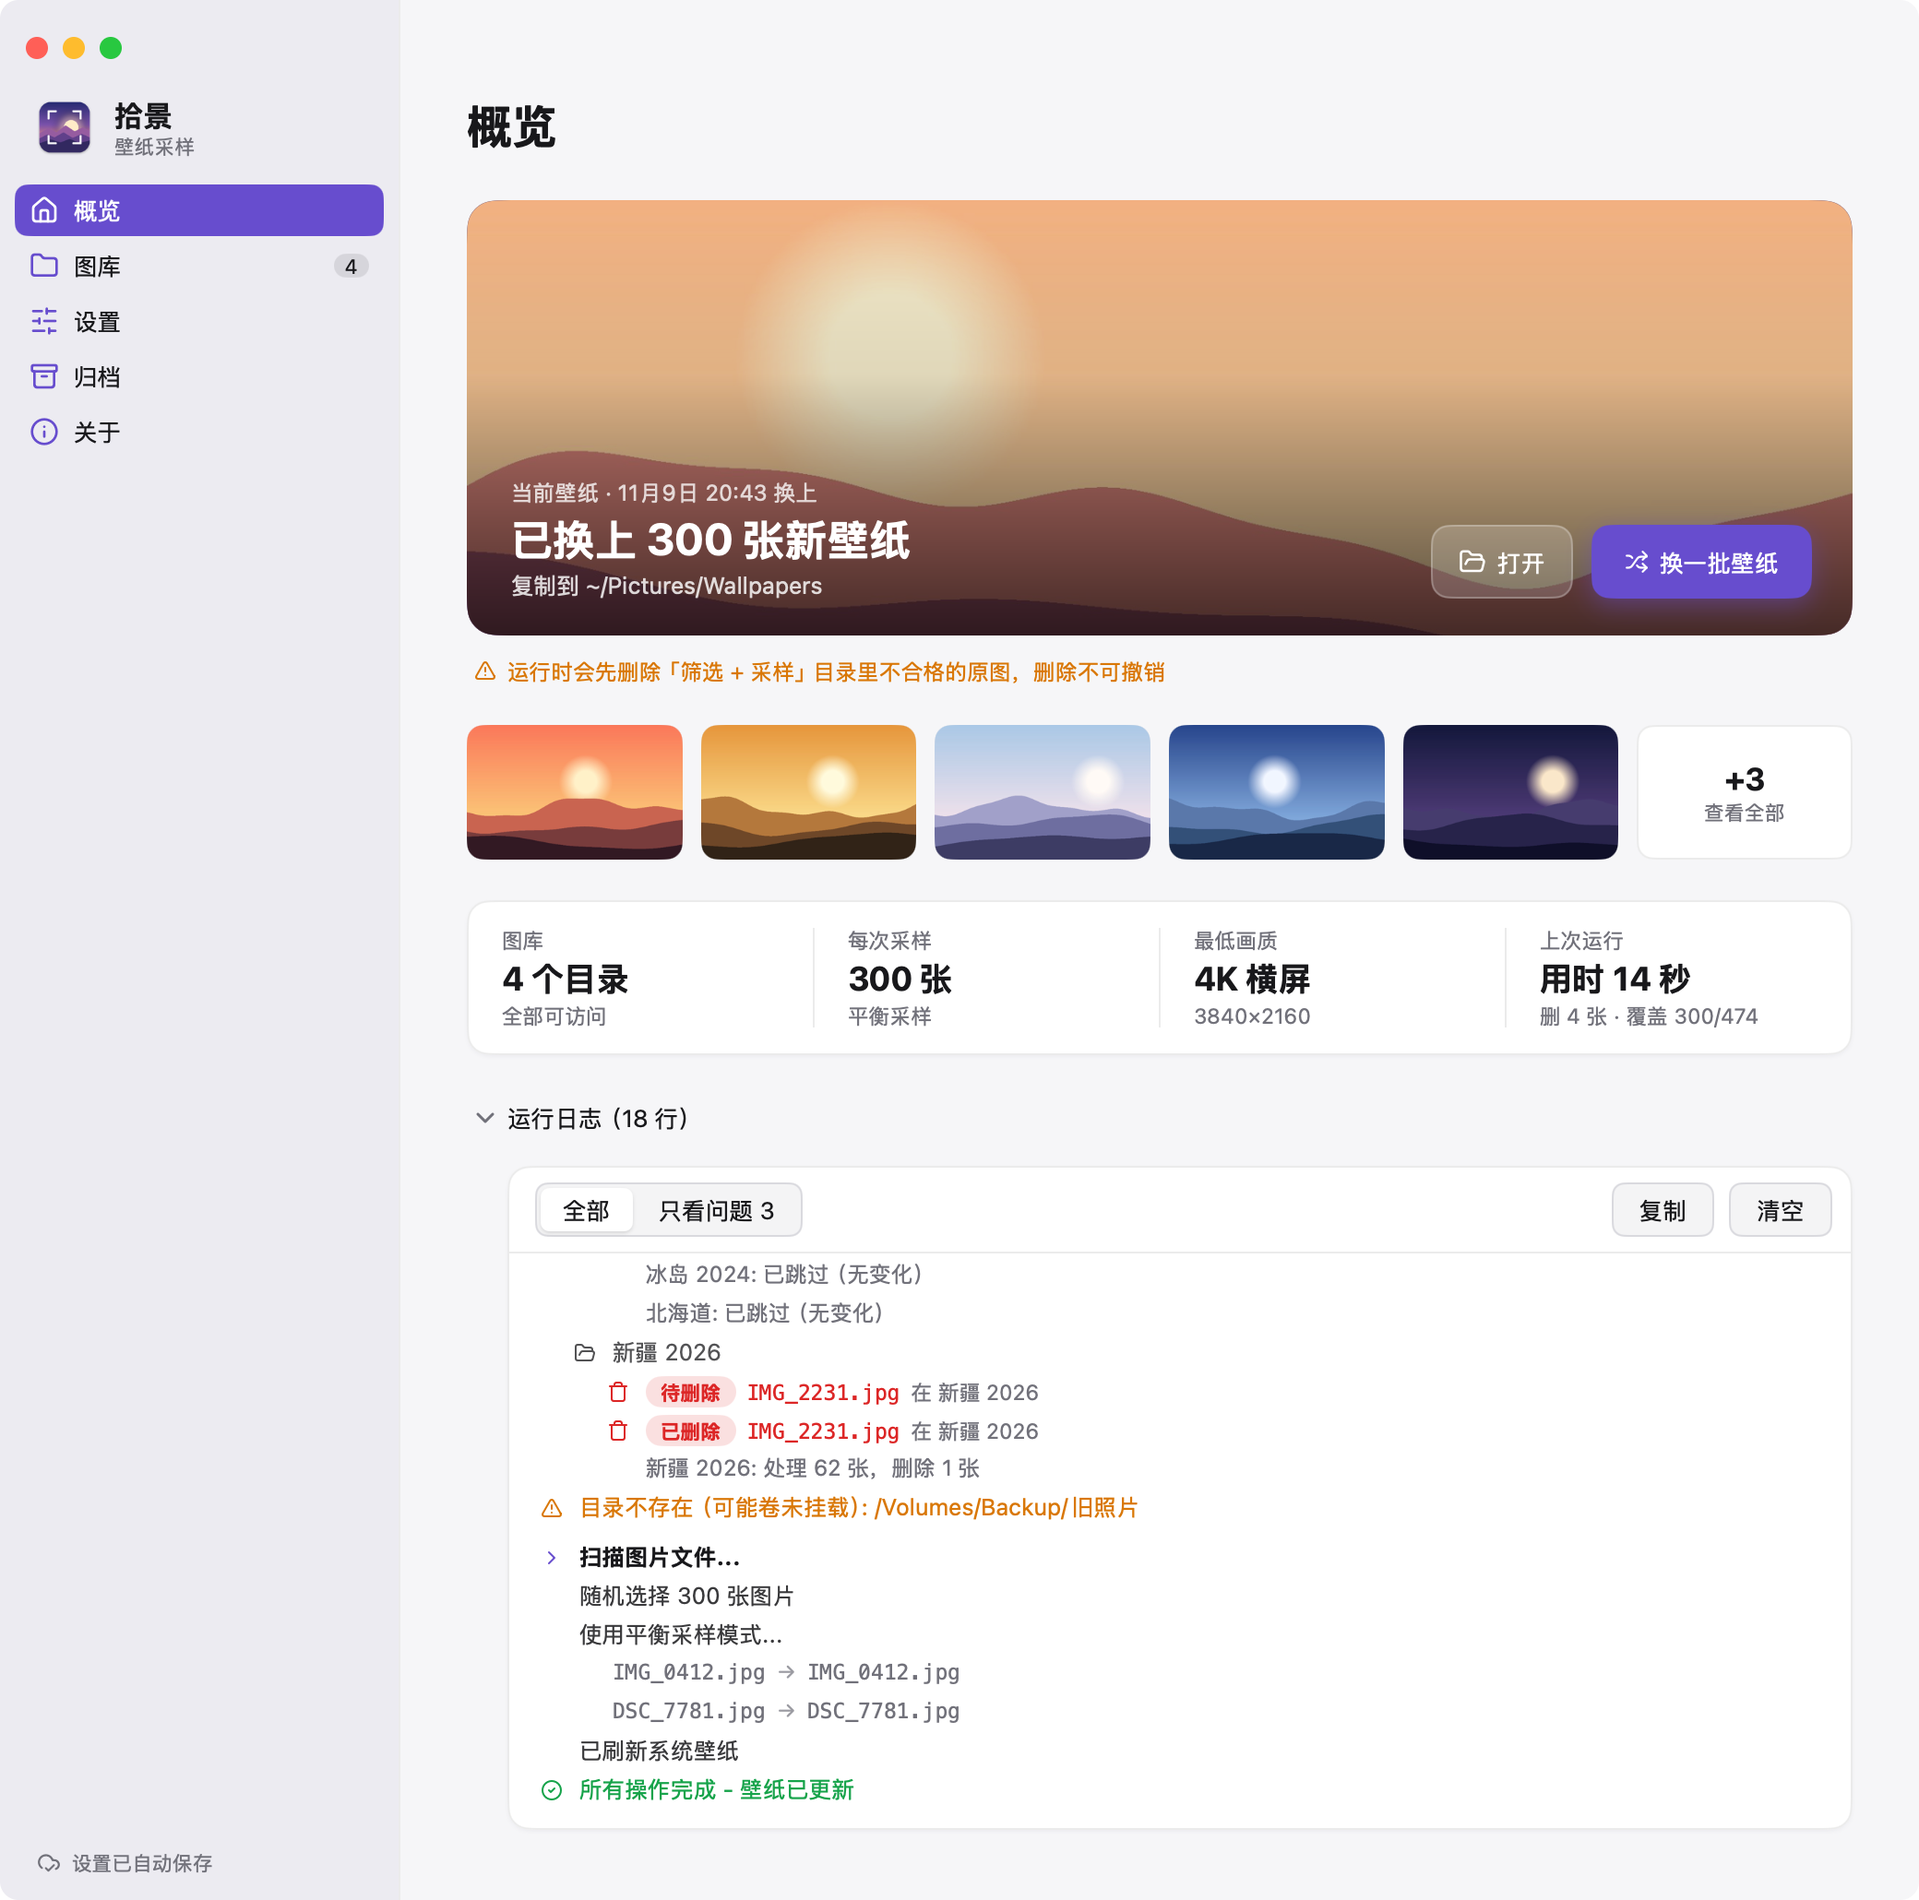
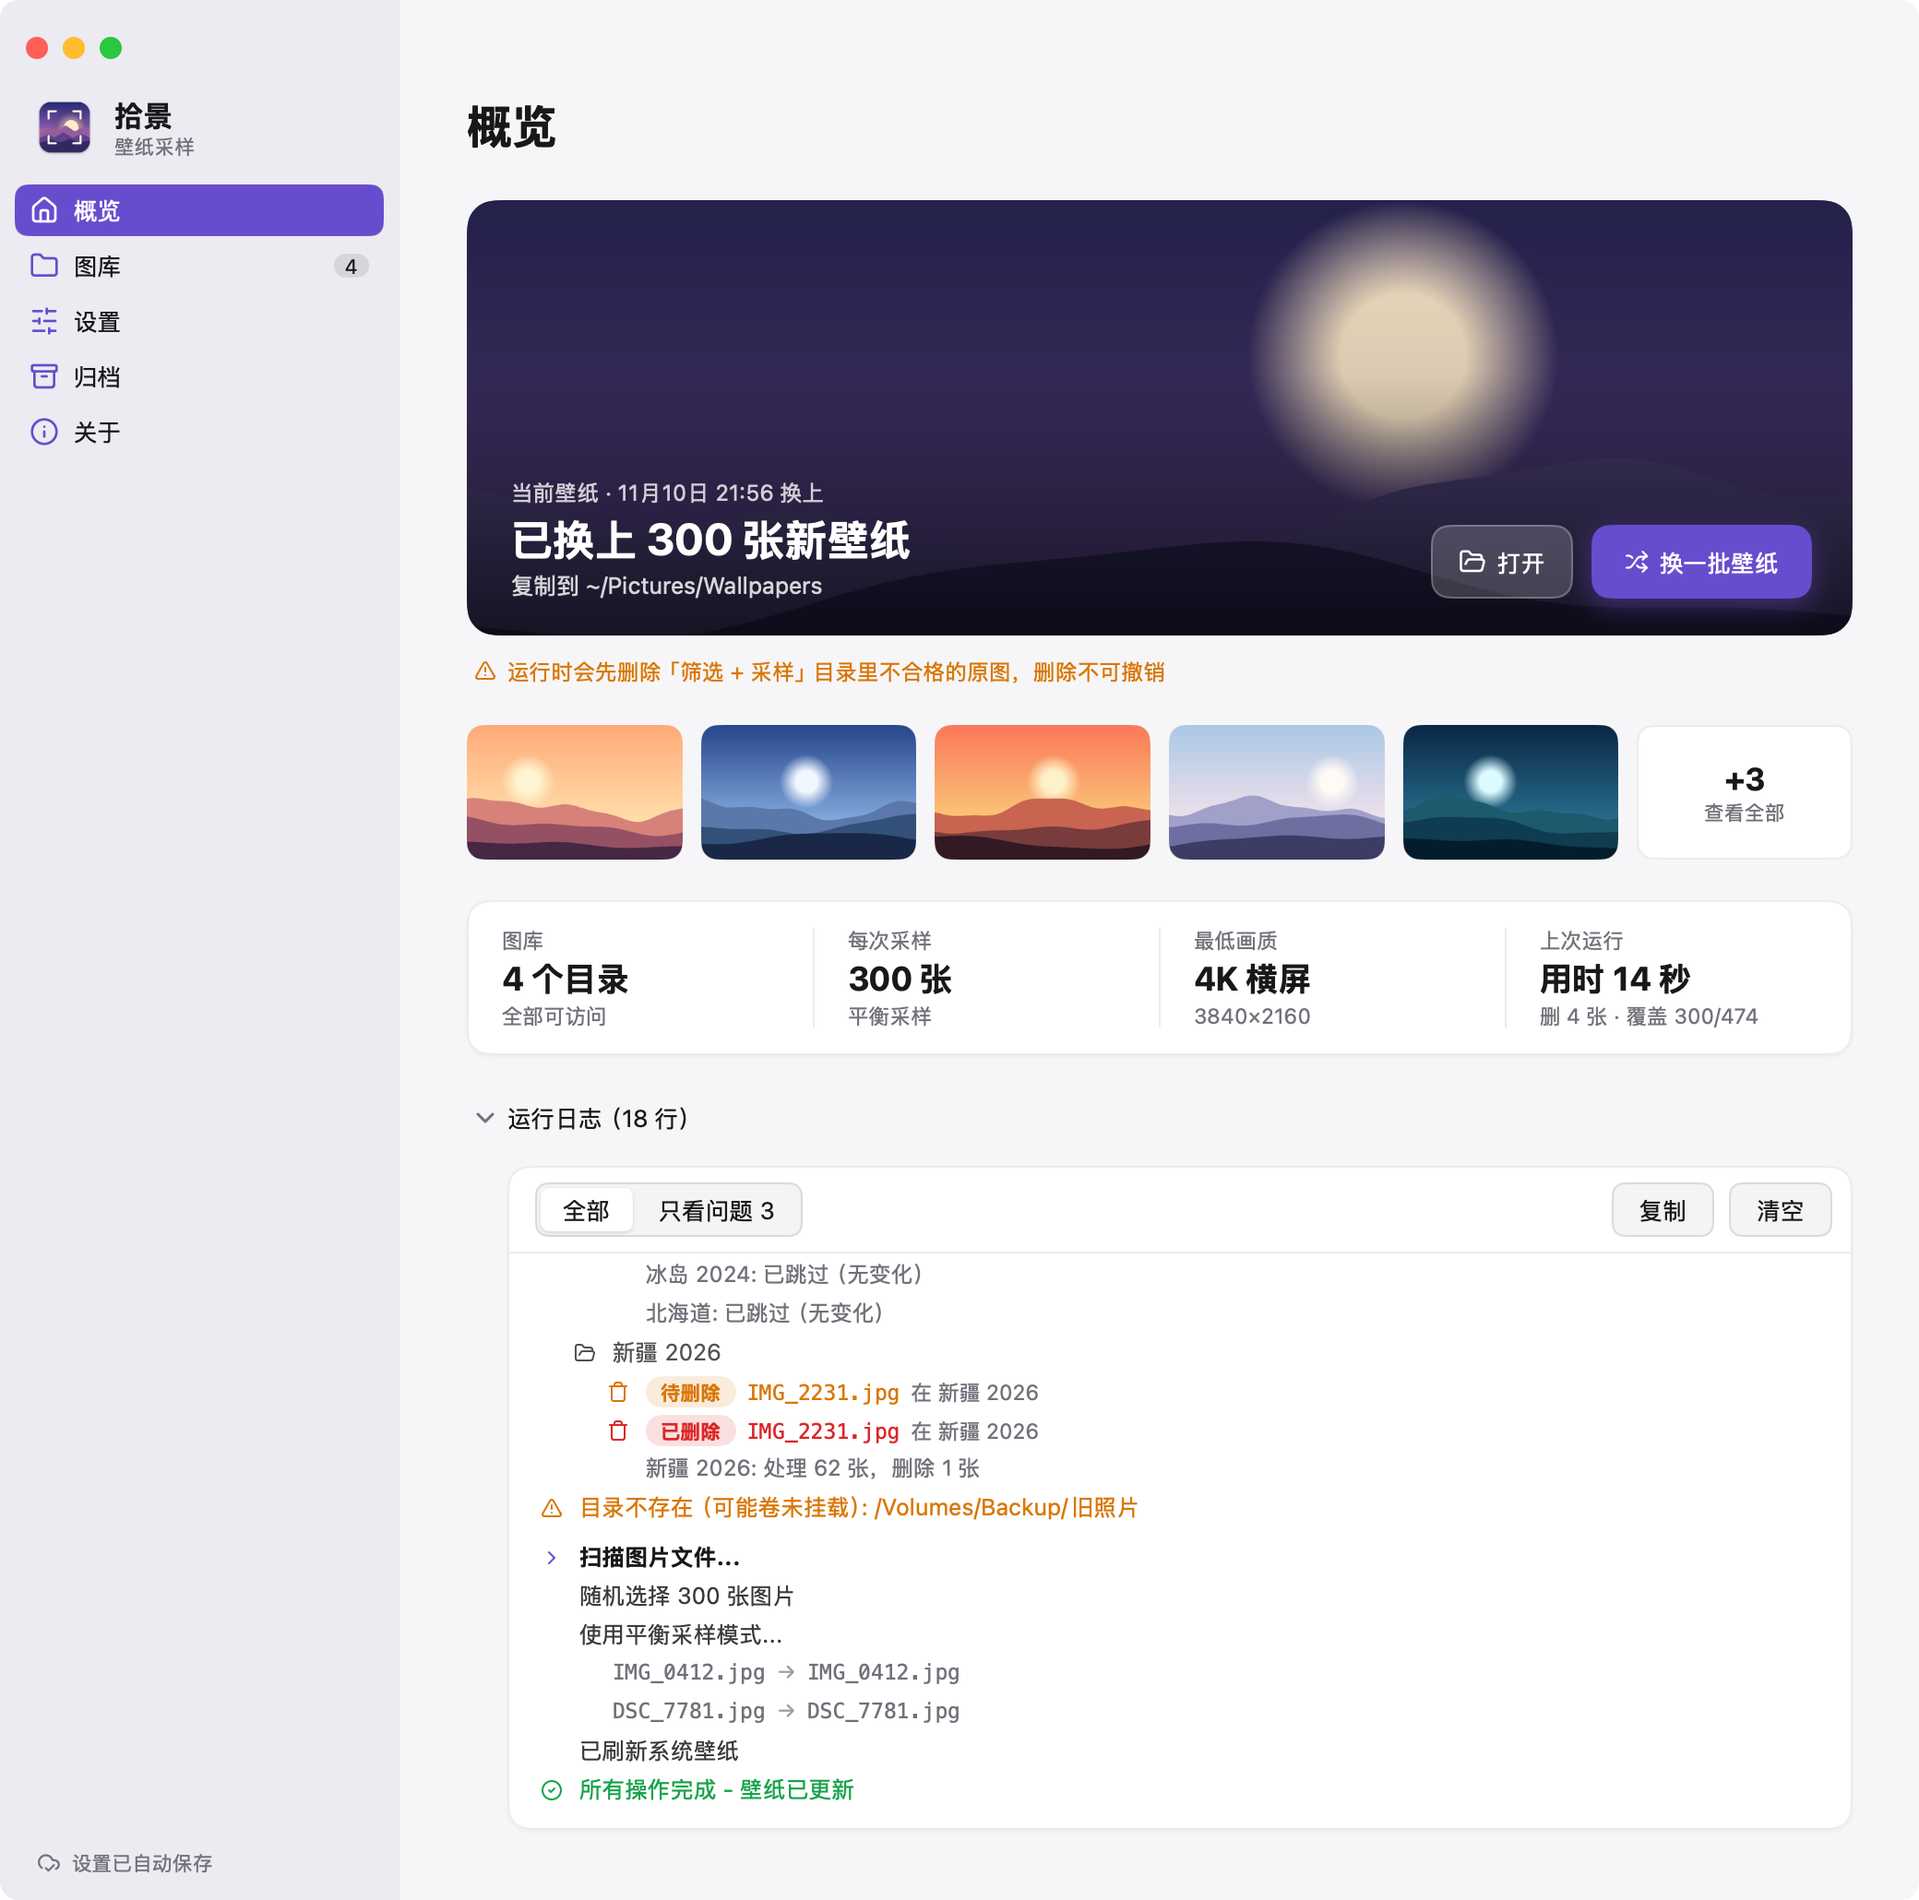
feat(拾景): 日志里「待删除」用警告色、「已删除」用红色，版本 v0.2.107

Changed region(s): [[0.2188, 0.0932, 0.9688, 0.3417], [0.2188, 0.3728, 0.8438, 0.466], [0.3438, 0.7146, 0.375, 0.7456]]

diff --git a/desktop/logview.go b/desktop/logview.go
@@ -187,7 +187,11 @@ func (a *app) logRow(c *ui.Context, e logEntry) {
 	case logError:
 		icon, color = iconXCircle, t.Danger
 	case logDelete:
-		icon, color = iconTrash, t.Danger
+		// 「待删除」只是判定不合格（模拟运行时也会出现），用警告色；「已删除」是真删掉了原图，用红色
+		icon, color = iconTrash, t.Warning
+		if e.label == "已删除" {
+			color = t.Danger
+		}
 	case logStop:
 		icon, color = iconCircleStop, t.TextMuted
 	}
